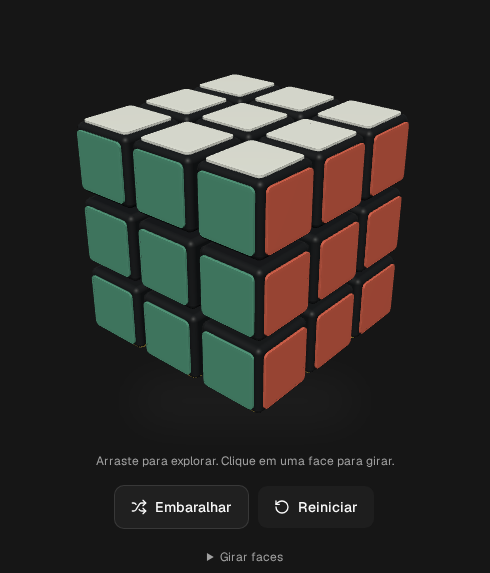
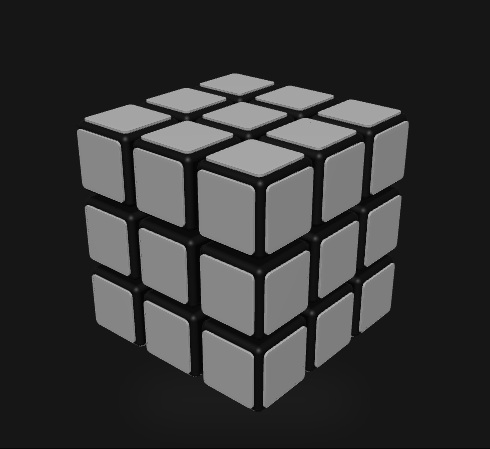
docs(landing): refresh monochrome cube previews

diff --git a/README.md b/README.md
@@ -22,7 +22,7 @@ Meatualiza helps students explain their questions, choose a course topic, and bo
 ## ✨ Available features
 
 - **Public landing:** compact dark layout with original illustrations, a prominent image carousel with overlaid captions, arrow controls and navigation dots, session details, and expandable course topics. Images advance every five seconds; visitors can pause, navigate manually, or use reduced motion to disable automatic advancement.
-- **Interactive cube:** orbit a 3×3 cube, turn its faces by pointer or keyboard, shuffle, and reset. Three.js loads near the viewport and renders on demand using one instanced mesh, with capped pixel density, reduced motion, and a fallback when WebGL is unavailable.
+- **Interactive cube:** a monochrome 3×3 sculpture using the application's theme colors, with rotation by drag, touch, or arrow keys. Three.js loads near the viewport and renders on demand using one static instanced mesh, with capped pixel density and a fallback when WebGL is unavailable.
 - **Google sign-in:** any personal or institutional Google account can join. The server selects the student or monitor workspace.
 - **Student dashboard:** upcoming confirmed registrations, saved questions, cancellation reasons, and direct links to the matching session in the agenda. Both workspaces have a responsive sidebar and an account menu for sign-out.
 - **Student agenda:** responsive calendar and list views, automatic confirmation when a seat is available, and one active registration per student per session.
